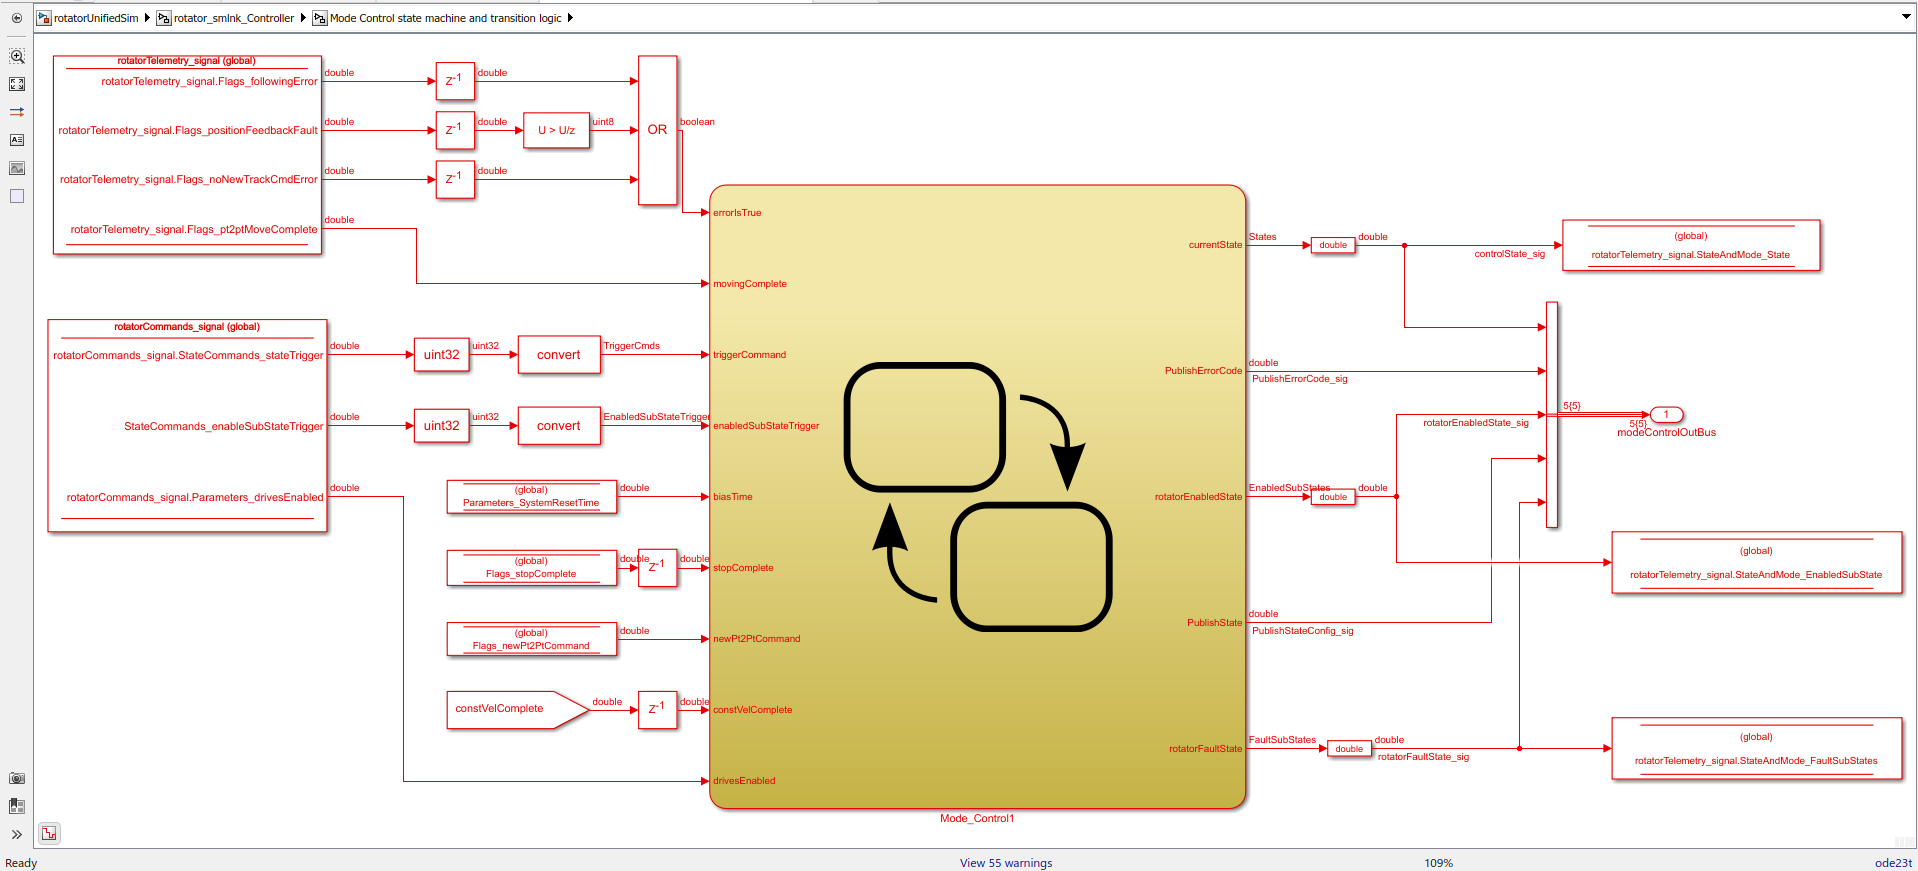
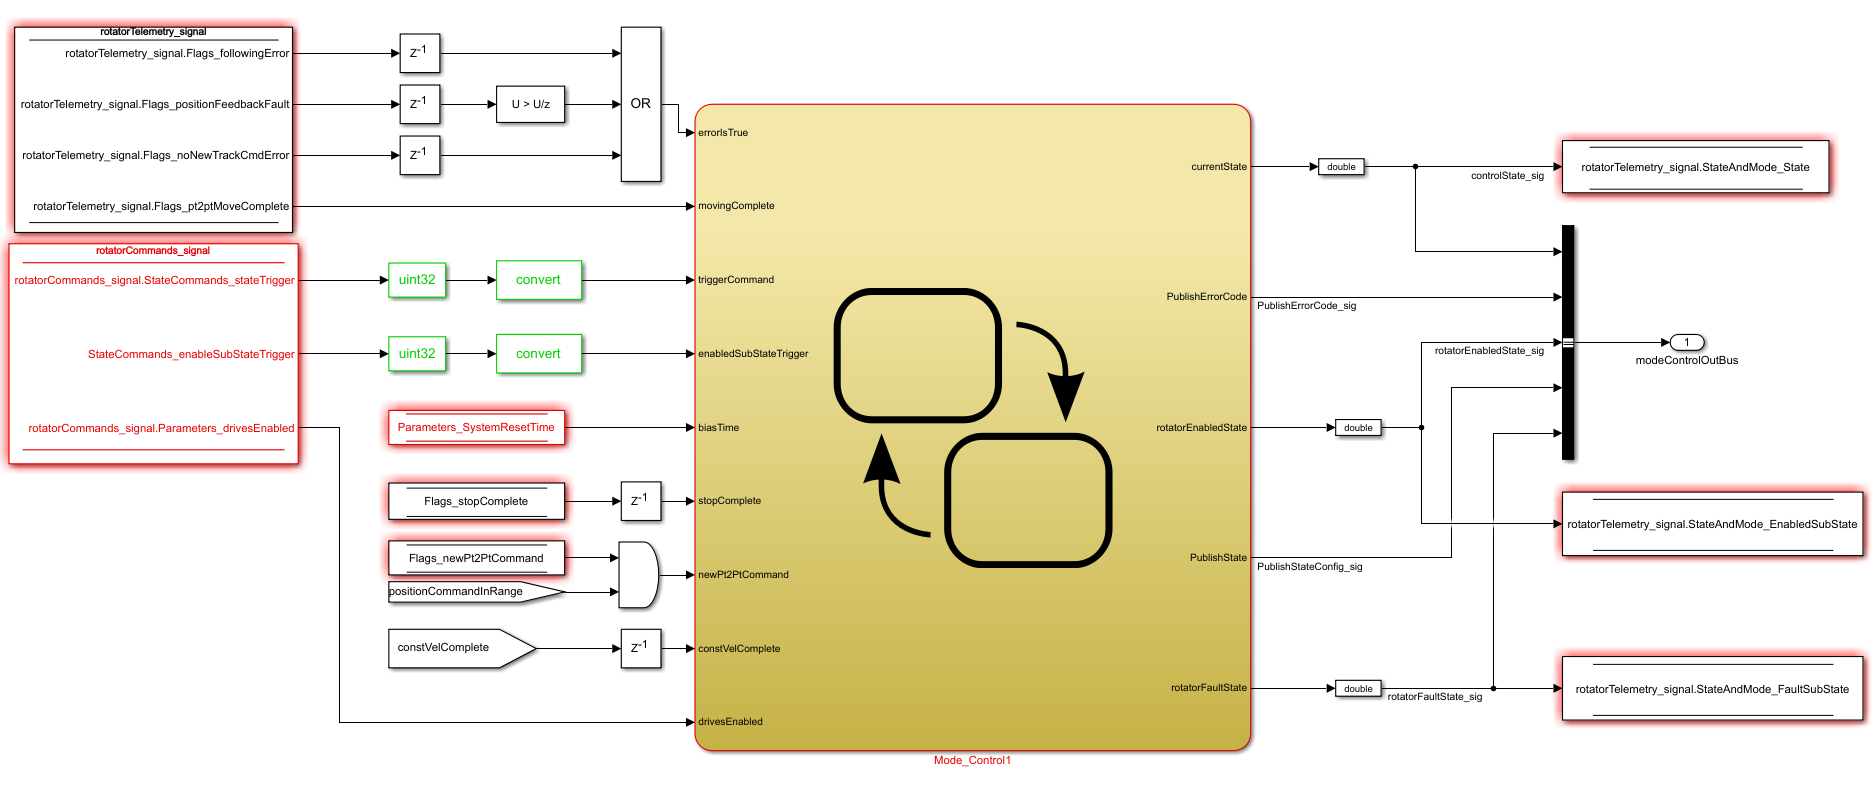
update: update changes to include the latest ones

diff --git a/README.md b/README.md
@@ -113,6 +113,9 @@ Here the executed changes are listed.
   ![Fault sub-state machine](./media/FaultState.png)
 - Remove the errorCheck command to go to fault, use the fault command instead.
 - Changes in the `commandParser.stepImpl` function to include the actions for the fault state.
+- Changes in the `commandParser.stepImpl` function to remove the `inRange` verification, this is set as a guard before 
+  the stateflow
+  ![Guard for inRange commands](media/GuardForInRangePt2PtCommands.png)
 - In the model the two current limiter blocks are bypassed as with the software limit these are not required.
 - Changes in the XML files:
   - Commands XML changes
